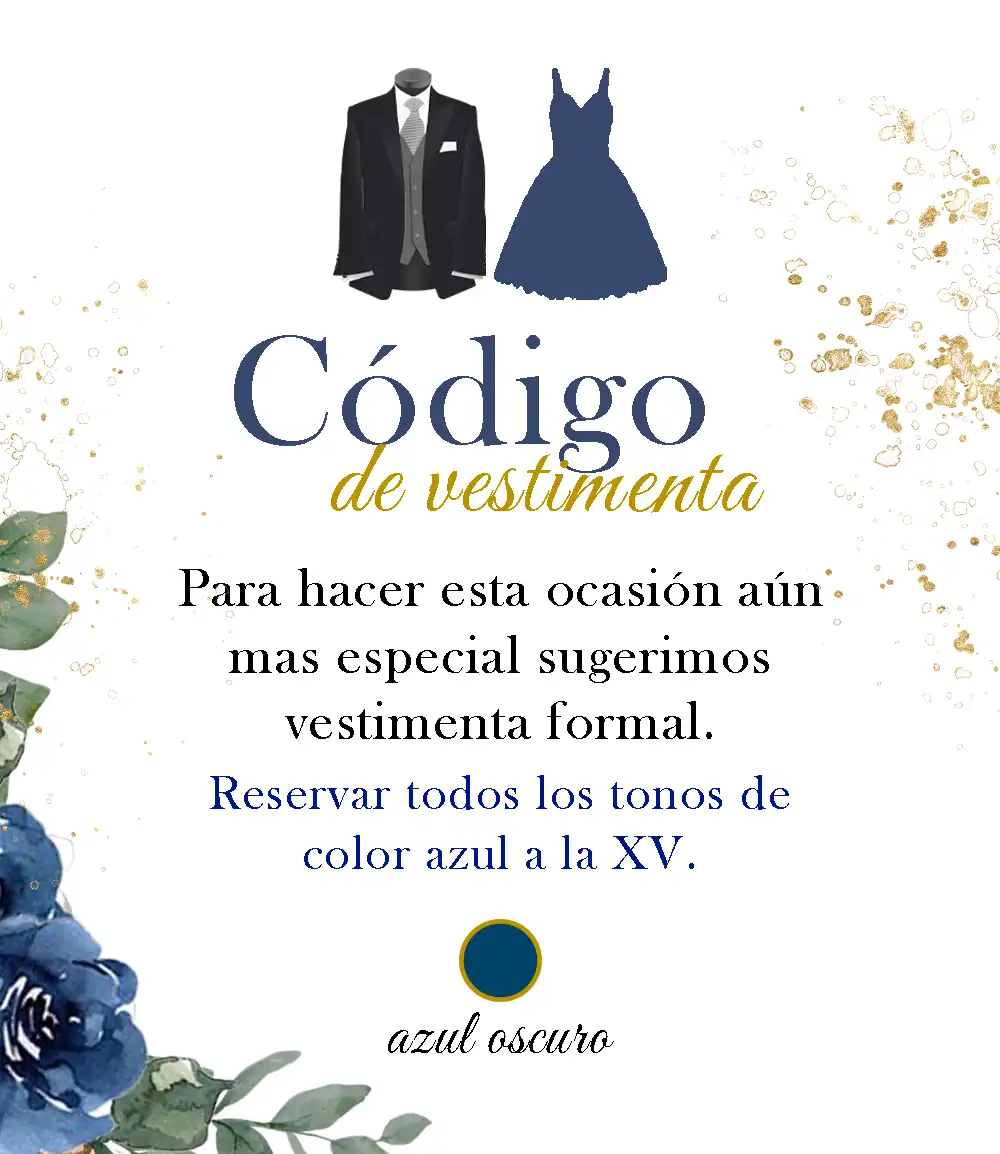
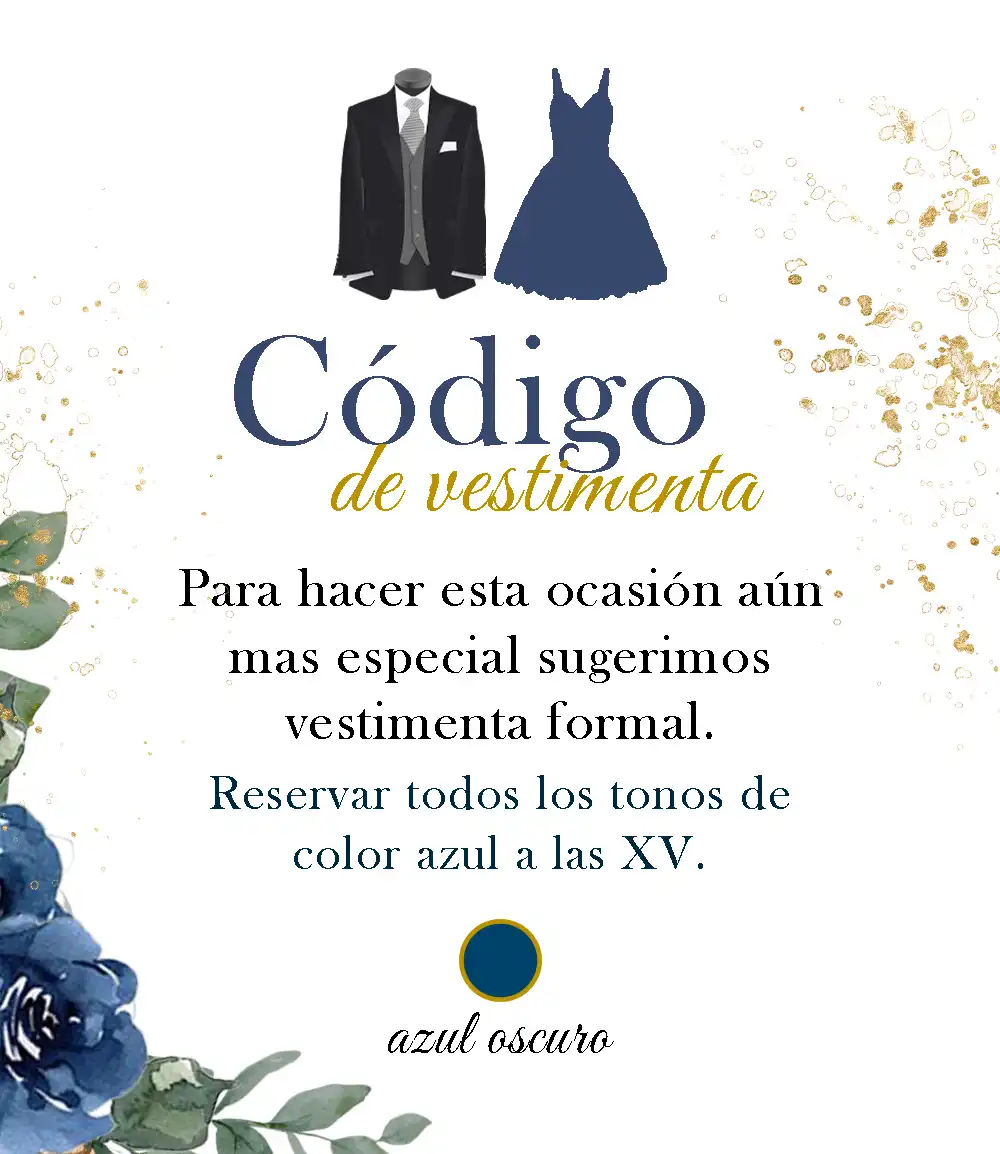
..

Changed region(s): [[0.217, 0.6551, 0.713, 0.7487], [0.744, 0.6863, 0.775, 0.7175]]

diff --git a/invitacion2/a/index.html b/invitacion2/a/index.html
@@ -785,7 +785,7 @@ html, body {
   <div class="sobre" onclick="abrirInvitacion()">
     <div class="sobre-arriba">
       <img src="../img/sobre-arriba.webp" alt="Sobre arriba">
-      <img src="../img/sello.webp" class="sello" alt="Sello">
+      <img src="../img/sellobb.webp" class="sello" alt="Sello">
 
     </div>
     <div class="sobre-abajo">
